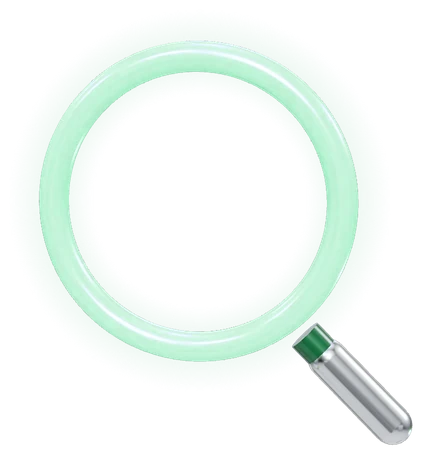
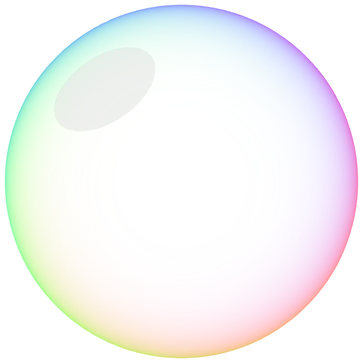
Lupa: modelo 3 (bolha) maior; sem lupa branca com mouse rápido; linhas iguais ao card
Claude-Session: https://claude.ai/code/session_01W4EMxrHJE2KvoUZMjh5ybf

diff --git a/src/app/theme-claro.css b/src/app/theme-claro.css
@@ -1646,7 +1646,7 @@ html.abrindo .pg-mapa, html.abrindo .pg-setas { display: none; } /* fora da tela
    Computador: passar o mouse = o card balança como bolha (propriedade `scale`, não briga com o tilt) + "Clique para ampliar";
    clicar = a cópia vem em bolha até o centro, em tamanho de leitura. Fecha clicando fora, no × ou com Esc. */
 @media (min-width: 761px) {
-  .card--bolha, .card--bolha * { cursor: image-set(url("/lupa-cursor.png") 2x) 27 21, url("/lupa-cursor.png") 27 21, zoom-in !important; }
+  .card--bolha, .card--bolha * { cursor: image-set(url("/lupa-cursor.png") 2x) 24 24, url("/lupa-cursor.png") 24 24, zoom-in !important; }
   @keyframes cardBolha { 0% { scale: 1; } 25% { scale: 1.035 .975; } 50% { scale: .99 1.025; } 75% { scale: 1.02 1.01; } 100% { scale: 1.015; } }
   .card__dica { position: absolute; right: 14px; bottom: 14px; z-index: 3; padding: 6px 12px 6px 30px; border-radius: 999px;
     font: 600 .78rem/1 var(--font-body, inherit); letter-spacing: .01em; color: #fff; pointer-events: none;
@@ -1688,7 +1688,7 @@ html.bolha-aberta .drone-layer { opacity: 0 !important; }
 /* ================= PERGUNTAS EM FOCO (23/11/2026, Victor: texto pequeno + abria uma sem fechar a outra) — src/lib/faqFoco.ts =================
    Computador: a resposta não abre na lista (a página nunca muda de altura). Clique = círculo escuro nasce do ponto do clique,
    painel de vidro com a pergunta subindo palavra por palavra e a resposta acendendo; setas ← → entre as perguntas. */
-@media (min-width: 761px) { html.modo-paginas .faq__item summary, html.modo-paginas .faq__item summary * { cursor: image-set(url("/lupa-cursor.png") 2x) 27 21, url("/lupa-cursor.png") 27 21, zoom-in !important; } }
+@media (min-width: 761px) { html.modo-paginas .faq__item summary, html.modo-paginas .faq__item summary * { cursor: image-set(url("/lupa-cursor.png") 2x) 24 24, url("/lupa-cursor.png") 24 24, zoom-in !important; } }
 .faq-foco { position: fixed; inset: 0; z-index: 140; display: grid; place-items: center; }
 .faq-foco__fundo { position: absolute; inset: 0; cursor: zoom-out;
   background: radial-gradient(ellipse at 50% 40%, rgba(11, 58, 36, .92), rgba(3, 20, 12, .96) 70%); backdrop-filter: blur(8px); -webkit-backdrop-filter: blur(8px); }
@@ -1752,15 +1752,15 @@ html.bolha-aberta a, html.bolha-aberta button, html.bolha-aberta button * { curs
 /* ================= LUPA 3D que amplia o texto (23/11/2026, modelo 2 do Victor) — src/lib/bolha.ts =================
    O card não sai do lugar: a lente segue o mouse e mostra uma cópia do card ampliada 2,2x embaixo dela. */
 .card--bolha.com-lupa, .card--bolha.com-lupa * { cursor: none !important; }
-.lupa-lente { position: fixed; left: 0; top: 0; width: 211px; height: 227px; z-index: 135; pointer-events: none; opacity: 0; will-change: transform; }
-.lupa-lente__vidro { position: absolute; left: 31.5px; top: 36px; width: 132px; height: 132px; border-radius: 50%; overflow: hidden; background: #fff;
+.lupa-lente { position: fixed; left: 0; top: 0; width: 181.3px; height: 181.3px; z-index: 135; pointer-events: none; opacity: 0; will-change: transform; }
+.lupa-lente__vidro { position: absolute; left: 5.65px; top: 5.65px; width: 170px; height: 170px; border-radius: 50%; overflow: hidden; background: #f7f9fc;
   box-shadow: inset 0 0 0 1px rgba(255, 255, 255, .6), inset 0 0 14px rgba(6, 42, 23, .28); }
 .lupa-lente__conteudo { position: absolute; left: 0; top: 0; transform-origin: 0 0; }
 .lupa-lente__brilho { position: absolute; inset: 0; border-radius: 50%; pointer-events: none;
   background: radial-gradient(ellipse 46% 30% at 32% 22%, rgba(255, 255, 255, .55), transparent 70%),
               radial-gradient(circle at 50% 50%, transparent 62%, rgba(52, 210, 122, .18) 88%, rgba(24, 160, 87, .3) 100%); }
 .lupa-lente__moldura { position: absolute; inset: 0; width: 100%; height: 100%; user-select: none; }
-.lupa-lente .lupa-ctx, .lupa-lente .work__grupo, .lupa-lente .work__grid { display: block !important; width: max-content !important; max-width: none !important;
+.lupa-lente .work__grupo, .lupa-lente .work__grid { display: block !important; width: max-content !important; max-width: none !important;
   padding: 0 !important; margin: 0 !important; gap: 0 !important; min-height: 0 !important; background: none !important; border: 0 !important;
   transform: none !important; translate: none !important; zoom: 1 !important; box-shadow: none !important; }
 .lupa-lente .lupa-ctx > i, .lupa-lente .work__grid > i, .lupa-lente .work__grupo-head { display: none !important; }
@@ -1782,3 +1782,7 @@ html.bolha-aberta a, html.bolha-aberta button, html.bolha-aberta button * { curs
   html.modo-paginas .services__track .card p, html.modo-paginas .services__track .card:nth-child(1) p { font-size: 1.22rem !important; line-height: 1.5 !important; }
   html.modo-paginas .services__track .card--cta h3 { font-size: 1.9rem !important; }
 }
+/* (a raiz da cópia na lente recebe o mesmo `zoom` da página por estilo: não pode ser zerado aqui) */
+.lupa-lente .lupa-ctx { display: block !important; width: max-content !important; max-width: none !important; padding: 0 !important; margin: 0 !important;
+  gap: 0 !important; min-height: 0 !important; background: none !important; border: 0 !important; transform: none !important; translate: none !important; box-shadow: none !important; }
+.lupa-lente { filter: drop-shadow(0 10px 24px rgba(13, 44, 82, .22)); }

diff --git a/src/lib/bolha.ts b/src/lib/bolha.ts
@@ -15,8 +15,9 @@ import gsap from "gsap";
  *    Enquanto aberta, `html.bolha-aberta` segura a troca de páginas (paginas.ts).
  */
 const AUMENTO = 2.1;
-// moldura renderizada (2ª versão, "mais proporcional": aro fino, cabo curto): centro da lente e raio interno em px CSS
-const MOLDURA = { w: 211, h: 227, cx: 97.5, cy: 102, r: 66 };
+// moldura renderizada (3ª versão: MODELO 3, BOLHA sem cabo, escolhida pelo Victor em 23/11/2026 — borda furta-cor, centro
+// transparente): tamanho, centro e raio da lente em px CSS
+const MOLDURA = { w: 181.3, h: 181.3, cx: 90.65, cy: 90.65, r: 85 };
 
 export function iniciarBolha(): () => void {
   const html = document.documentElement;
@@ -77,24 +78,38 @@ export function iniciarBolha(): () => void {
     if (!alvo || !copiaLupa) return;
     // (proteção: se a cópia sumiu da lente — ex.: uma saída e entrada muito rápidas —, refaz)
     if (!conteudo.firstChild || !copiaLupa.isConnected) { const a = alvo; alvo = null; mostrarLupa(a, { clientX: mx, clientY: my } as MouseEvent); return; }
-    // a lente acompanha o mouse com um leve atraso (movimento macio)
-    lx += (mx - lx) * 0.38; ly += (my - ly) * 0.38;
-    lente.style.translate = `${lx - MOLDURA.cx}px ${ly - MOLDURA.cy}px`; // (`translate` à parte: o gsap usa `transform` para aparecer)
+    // a lente acompanha o mouse com um leve atraso (movimento macio), mas o CENTRO dela nunca sai do card:
+    // com o mouse rápido o atraso deixava a lente fora da cópia e ela ficava BRANCA (Victor, 23/11/2026)
     const r = alvo.getBoundingClientRect();
+    const pres = (v: number, a: number, b: number) => Math.min(b, Math.max(a, v));
+    lx += (mx - lx) * 0.5; ly += (my - ly) * 0.5;
+    lx = pres(lx, r.left + 2, r.right - 2); ly = pres(ly, r.top + 2, r.bottom - 2);
+    lente.style.translate = `${lx - MOLDURA.cx}px ${ly - MOLDURA.cy}px`; // (`translate` à parte: o gsap usa `transform` para aparecer)
     const s = escala0 * AUMENTO;
     const u = (lx - r.left) / escala0, v = (ly - r.top) / escala0;
     conteudo.style.transform = `translate(${MOLDURA.r - u * s}px, ${MOLDURA.r - v * s}px) scale(${s})`;
-    if (Math.abs(mx - lx) > 0.3 || Math.abs(my - ly) > 0.3) raf = requestAnimationFrame(posicionar);
+    const mxC = pres(mx, r.left + 2, r.right - 2), myC = pres(my, r.top + 2, r.bottom - 2);
+    if (Math.abs(mxC - lx) > 0.3 || Math.abs(myC - ly) > 0.3) raf = requestAnimationFrame(posicionar);
   };
   const mostrarLupa = (card: HTMLElement, e: MouseEvent) => {
     if (fecharAtual || html.classList.contains("pagina-andando")) return;
     alvo = card;
     const r = card.getBoundingClientRect();
     copiaLupa = copiaDe(card);
-    copiaLupa.style.setProperty("width", `${r.width / zoomAcumulado(card)}px`, "important");
-    conteudo.replaceChildren(contexto(card, copiaLupa, true));
+    // a cópia é desenhada com o MESMO zoom e a MESMA largura e altura do card original: assim as linhas quebram
+    // exatamente iguais (antes o texto "descia para a linha de baixo" dentro da lente) e ela nunca é mais curta que o
+    // card (o card de baixo estica até a altura da fileira — a lente passava do fim da cópia e ficava branca)
+    const z = zoomAcumulado(card);
+    copiaLupa.style.setProperty("width", `${r.width / z}px`, "important");
+    copiaLupa.style.setProperty("height", `${r.height / z}px`, "important");
+    copiaLupa.style.setProperty("min-height", `${r.height / z}px`, "important");
+    const ctx = contexto(card, copiaLupa, true);
+    ctx.style.setProperty("zoom", String(z), "important");
+    conteudo.replaceChildren(ctx);
     conteudo.style.transform = "none";
-    escala0 = r.width / Math.max(1, copiaLupa.offsetWidth); // (offsetWidth: não sofre o `scale` da lente aparecendo)
+    // (a lente pode estar no meio do "aparecer" com scale: desconta)
+    const escalaLente = Number(gsap.getProperty(lente, "scale")) || 1;
+    escala0 = r.width / Math.max(1, copiaLupa.getBoundingClientRect().width / escalaLente);
     mx = lx = e.clientX; my = ly = e.clientY;
     card.classList.add("com-lupa");
     if (!visivel) { visivel = true; gsap.killTweensOf(lente); gsap.fromTo(lente, { opacity: 0, scale: 0.7 }, { opacity: 1, scale: 1, duration: 0.35, ease: "back.out(1.6)" }); }

diff --git a/CLAUDE.md b/CLAUDE.md
@@ -200,10 +200,12 @@ O endereço de produção é o do projeto `mafra-site` na Vercel.
 - **Cards de Serviços e Cases** (23/11/2026, Victor: monitor de 15,6" não dava para ler; `src/lib/bolha.ts`, só computador):
   1) PASSAR O MOUSE = LUPA 3D que segue o mouse e AMPLIA (2,2x) só o texto embaixo dela; o card NÃO sai do lugar
   ("não quero que o menu venha para frente"). Modelo 2 escolhido pelo Victor (aro azul-ciano aceso, cabo cromado),
-  renderizado em 3D com three.js: `/public/lupa-moldura.webp` (2ª versão "proporcional": aro fino, cabo curto; centro 97,5/102,
-  raio 66 em 211×227 — a 1ª era grande demais) e
+  renderizado em 3D com three.js: `/public/lupa-moldura.webp` — HOJE é o MODELO 3, BOLHA sem cabo (borda furta-cor, centro
+  transparente; 181×181, centro 90,65, lente de 170px). O modelo 2 com cabo foi trocado ("não está muito bom") — e
   `/public/lupa-cursor.png` (ícone do cursor nas Perguntas e na dica). Dentro da lente vai uma cópia do card na MESMA
-  estrutura de classes (inclusive um `#cases` temporário) para as letras ficarem idênticas.
+  estrutura de classes (inclusive um `#cases` temporário), com o MESMO `zoom` da página e a MESMA largura e ALTURA do card:
+  as linhas quebram iguais e a lente nunca passa do fim da cópia. O centro da lente fica preso dentro do card (com mouse
+  rápido o atraso deixava a lente fora e ela ficava BRANCA).
   2) CLIQUE = a cópia sai do card e vem ao centro como GELATINA: cresce em 8 balanços (achata/estica, cada vez menos)
   até abrir; aro furta-cor de bolha de sabão e reflexo; fundo claro desfocado; fecha (×, fora, Esc) voltando ao card.
   RECUSADOS: gota azul ("cubo de gelo"), fundo azul-escuro, abrir sozinho ao passar o mouse (trazia o card para frente).
